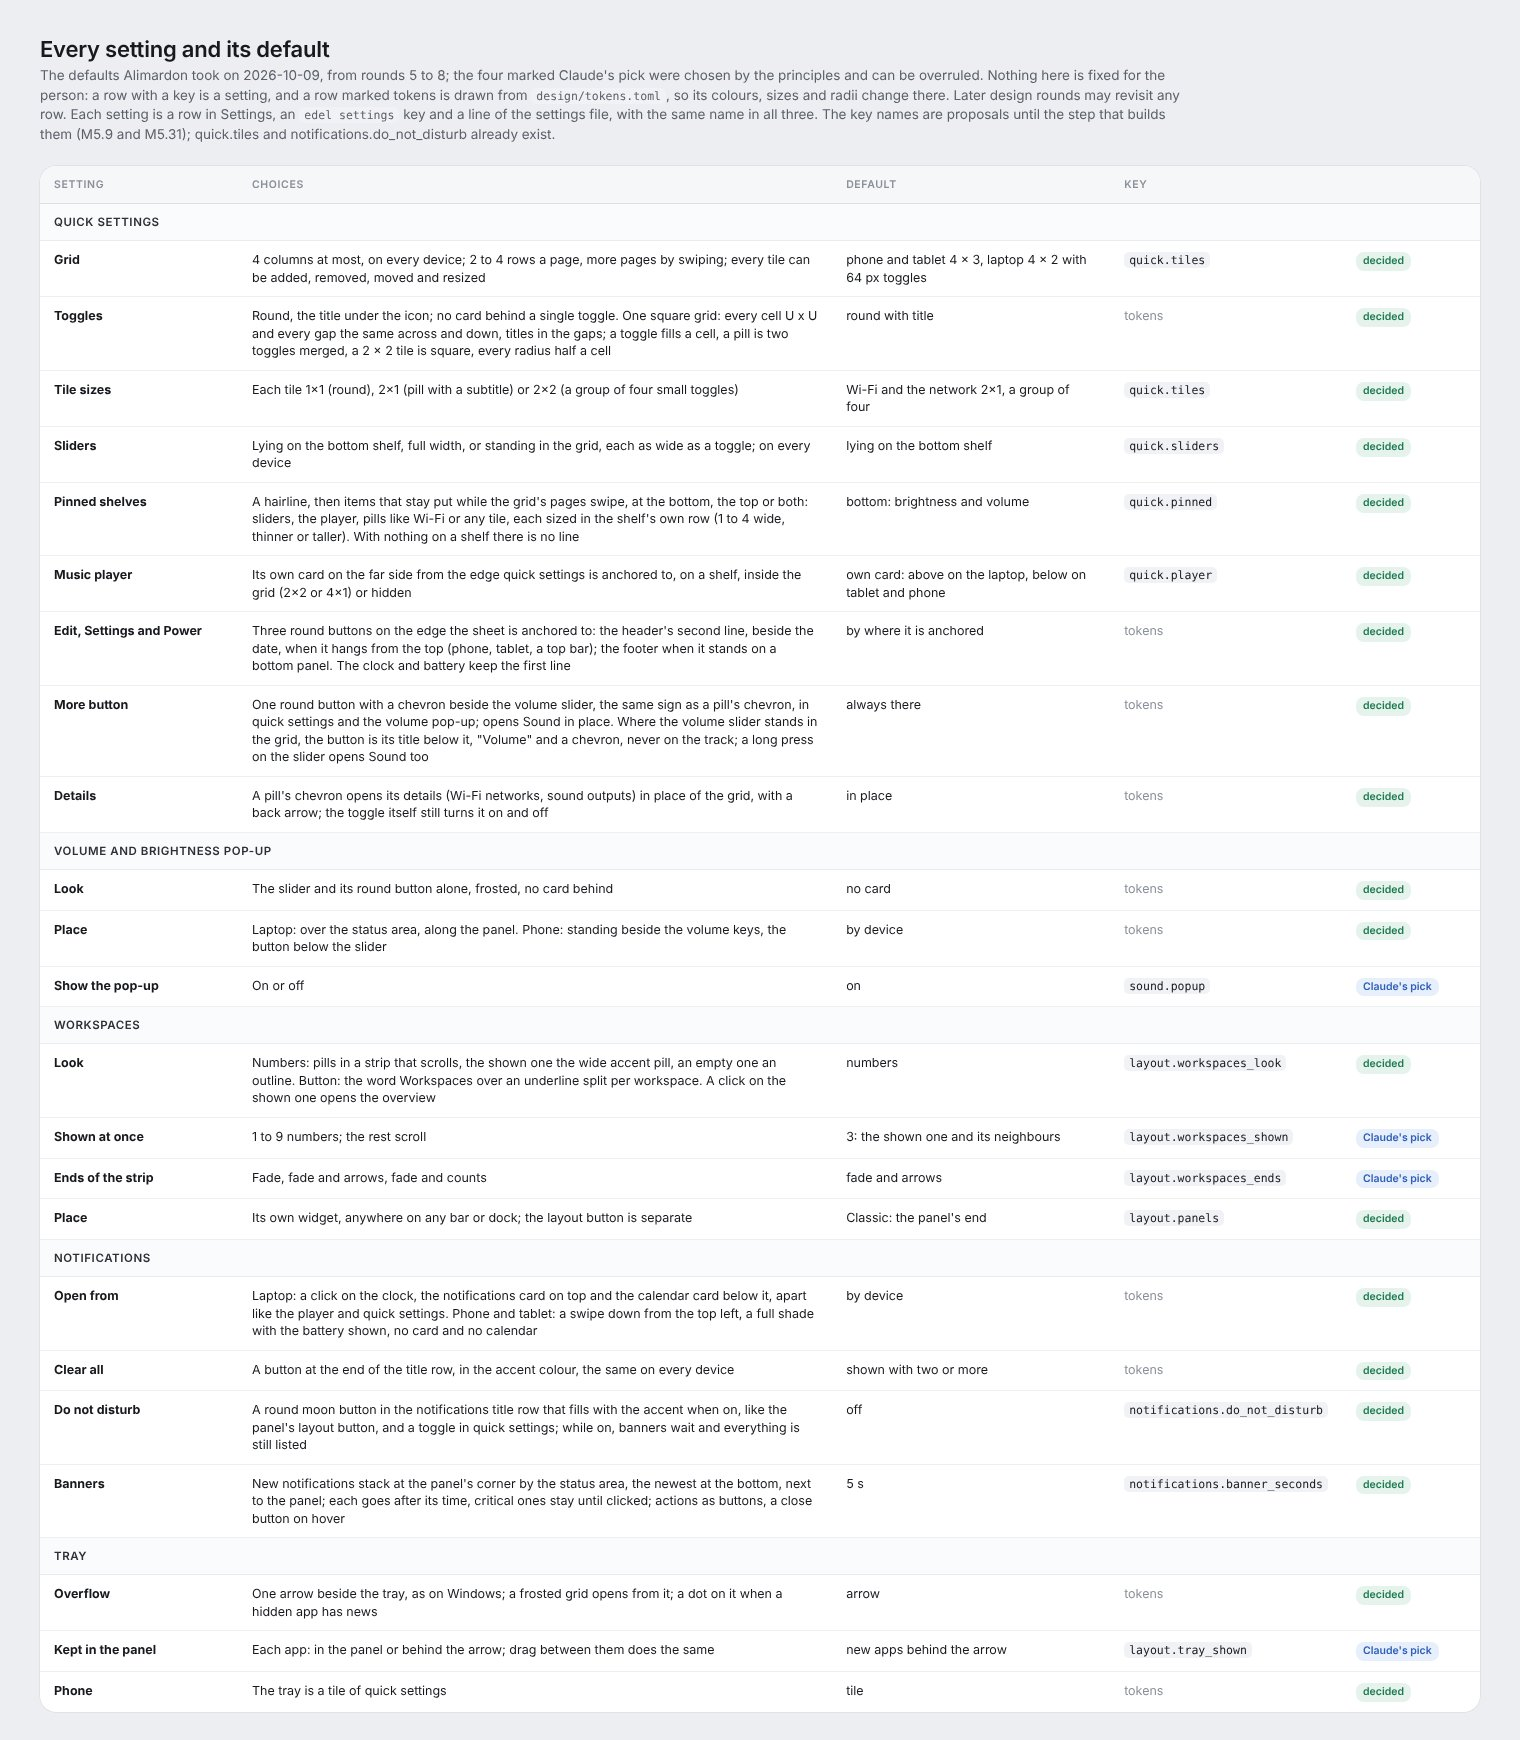
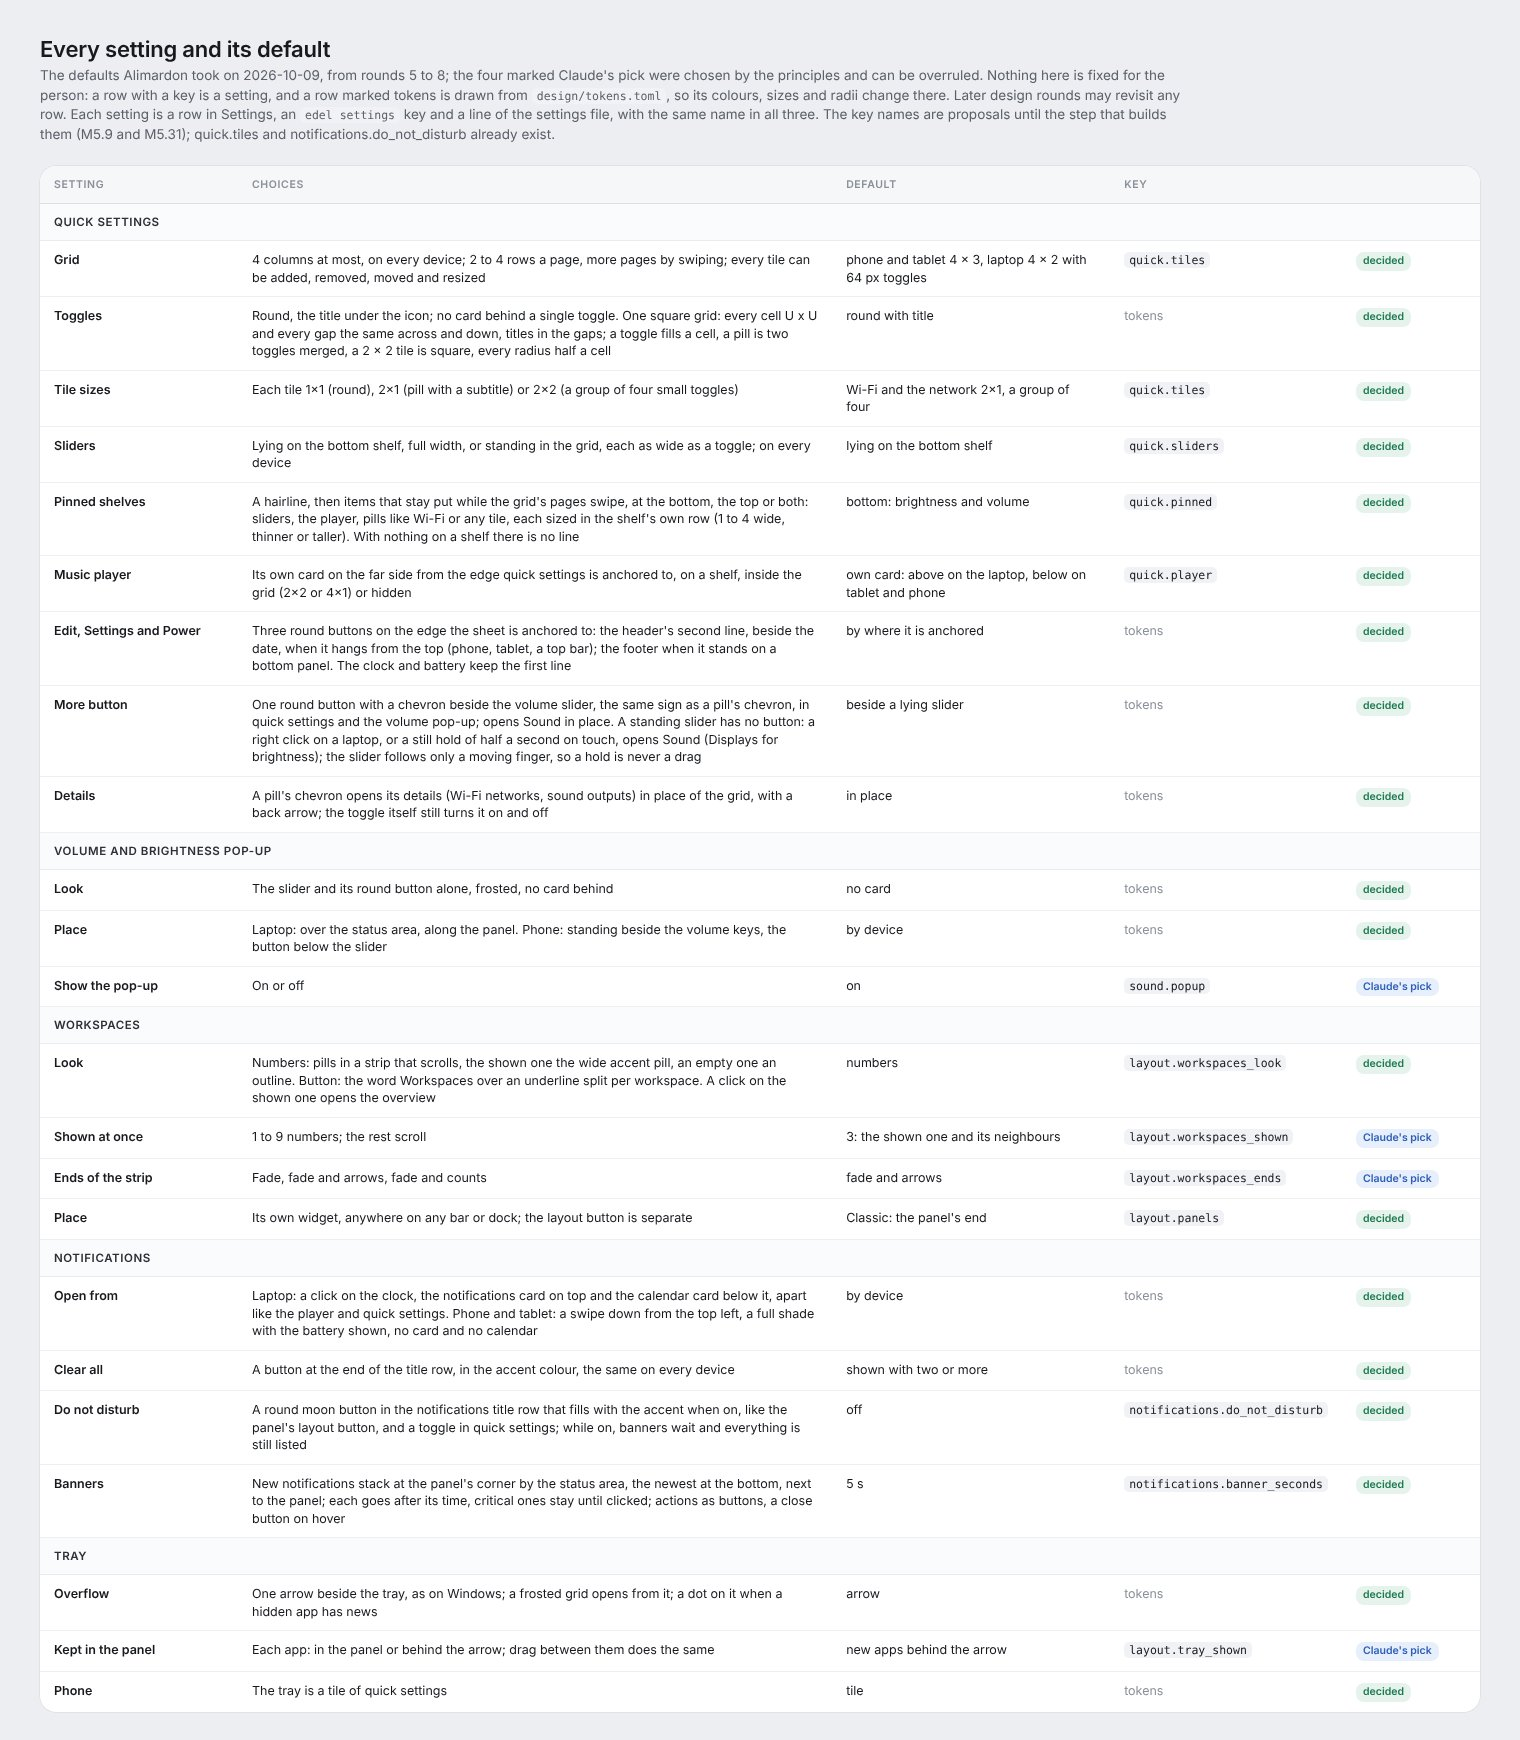
Open Sound from a standing slider with a hold or a right click
Alimardon found both the chevron on the track and the chip under the
slider awkward, and chose after six alternatives: a standing slider
has no button. A right click on a laptop, or a still hold of half a
second on touch, opens Sound, Displays for brightness. The slider
follows only a moving finger, from 8 px, so a hold and a drag cannot
be mistaken. The comparison is kept as standing-slider.jpg, and the
mockups README and the table of settings carry the rule.

Claude-Session: https://claude.ai/code/session_01HCgNXHFcc1QLqqDYCxT6Ys

diff --git a/docs/mockups/README.md b/docs/mockups/README.md
@@ -69,6 +69,7 @@ review of M8.18 first) may revisit them for better taste.
 | [shell/states.jpg](shell/states.jpg) | Hover, pressed, on and off, focus, and how each part moves |
 | [shell/tray.jpg](shell/tray.jpg) | The tray: one arrow, as on Windows, opening a frosted grid |
 | [shell/settings.jpg](shell/settings.jpg) | Every setting these pictures need: its choices, its default and its proposed key; Alimardon's decisions, and four defaults Claude picked by the principles (how many workspaces show, the ends of their strip, the volume pop-up on, new tray apps behind the arrow), which they can overrule |
+| [shell/standing-slider.jpg](shell/standing-slider.jpg) | How Sound is reached from a standing volume slider: six ways compared, and the one chosen, no button, a right click or a still hold |
 | [shell/options.jpg](shell/options.jpg) | The other layouts a person can switch to: the shelf at the top, both shelves, the player inside the grid, the sliders standing in it |
 
 The rules under them:
@@ -88,6 +89,12 @@ The rules under them:
 - **Edit, Settings and power** sit on the anchored edge: the footer on a
   bottom panel, the header's second line when the sheet hangs from the
   top. A chevron on a pill opens its details in place.
+- **A slider is only a slider.** One lying on a shelf has its chevron
+  beside it; one standing in the grid has no button at all: a right
+  click on a laptop, or a still hold of half a second on touch, opens
+  Sound (Displays for brightness). The slider follows only a moving
+  finger, so a hold is never mistaken for a drag (Alimardon,
+  2026-10-09).
 - **Notifications** open from the clock on a laptop, apart from the
   calendar card below; on a phone or tablet from a swipe down at the top
   left, as a full shade. Do not disturb is a moon button that fills with
